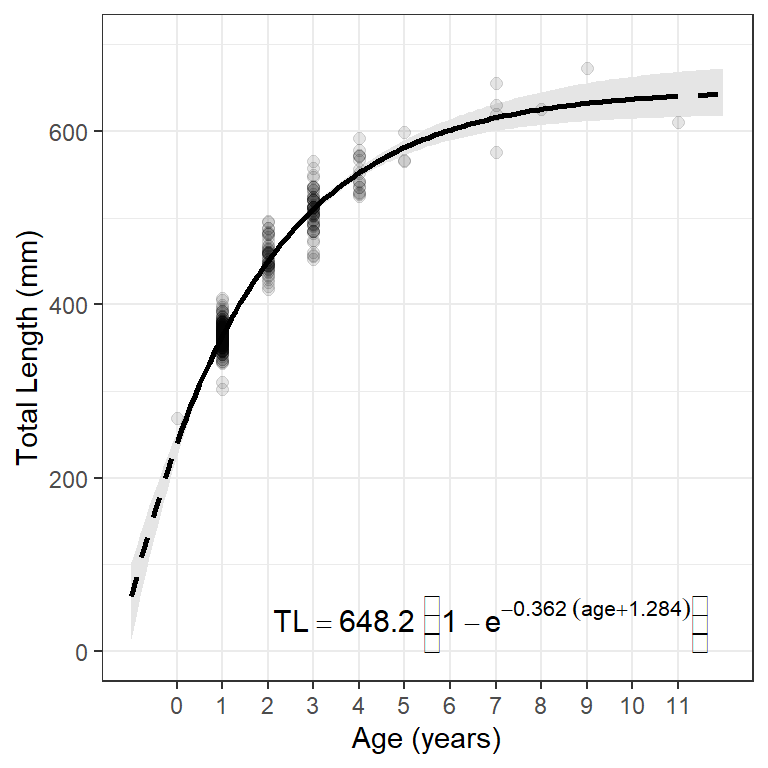
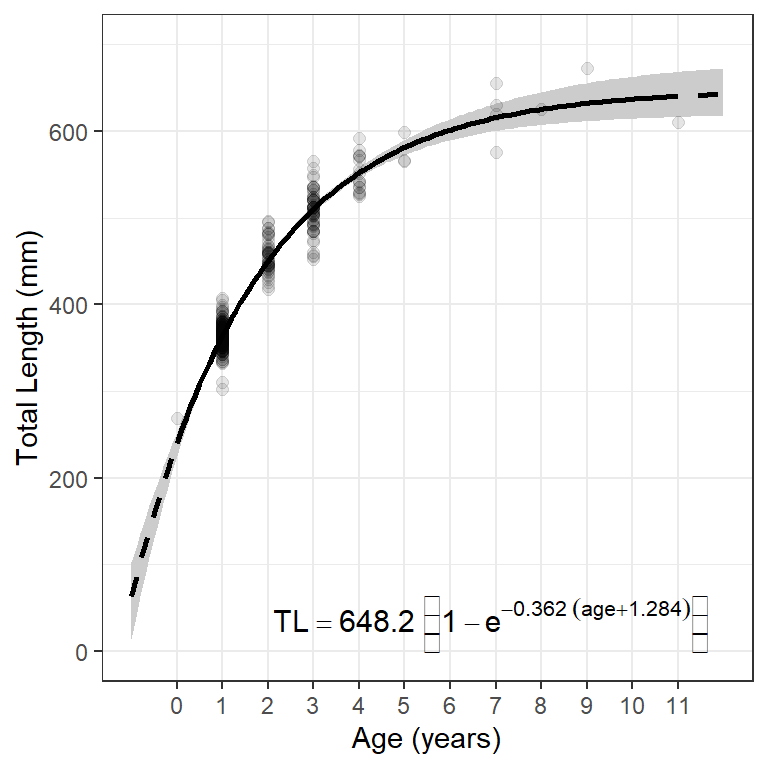
minor edits to VonB plot post

Changed region(s): [[0.4688, 0.0625, 0.9688, 0.2188], [0.1562, 0.5625, 0.25, 0.8125]]

diff --git a/docs/blog/posts/2019-12-31_vonB_plots_1/index.html b/docs/blog/posts/2019-12-31_vonB_plots_1/index.html
@@ -275,7 +275,7 @@ div.csl-indent {
       <div>
       <div class="quarto-title-meta-heading">Modified</div>
       <div class="quarto-title-meta-contents">
-        <p class="date-modified">Dec 8, 2022</p>
+        <p class="date-modified">Dec 9, 2022</p>
       </div>
     </div>
       
@@ -365,8 +365,8 @@ Note
 #R|      }
 #R|      Linf * (1 - exp(-K * (t - t0)))
 #R|  }
-#R|  &lt;bytecode: 0x0000018af463a068&gt;
-#R|  &lt;environment: 0x0000018af4672188&gt;</code></pre>
+#R|  &lt;bytecode: 0x000002849eaee880&gt;
+#R|  &lt;environment: 0x000002849dcf20e8&gt;</code></pre>
 </div>
 </div>
 <div class="page-columns page-full"><p>Some of the methods below use the fact that the three parameters of the typical VBGF (<span class="math inline">\(L_{\infty}\)</span>, <span class="math inline">\(K\)</span>, <span class="math inline">\(t_{0}\)</span>) can be given to this function separately (in that order) or as a vector (still in that order). For example, both lines below can be used to predict the mean length for an age-3 fish with the given VBGF parameters.<a href="#fn4" class="footnote-ref" id="fnref4" role="doc-noteref"><sup>4</sup></a></p><div class="no-row-height column-margin column-container"><li id="fn4"><p><sup>4</sup>&nbsp;The paramters could be given in a different order but would need to be named; e.g., <code>vb(3,t0=-0.5,K=0.3,Linf=300)</code>.</p></li></div></div>
@@ -485,6 +485,7 @@ Note
 </div>
 </div>
 </div>
+<p>&nbsp;</p>
 </section>
 <section id="simple-model-fit-with-predicted-values" class="level1 page-columns page-full">
 <h1>Simple Model Fit with Predicted Values</h1>
@@ -550,7 +551,7 @@ Note
 <p>A confidence band for the mean lengths at each age is then added to the plot with <code>geom_ribbon()</code>, noting the use of <code>ymin=LCI</code> and <code>ymax=UCI</code>. The <code>fill=</code> will be the color of the enclosed ribbon. I added <code>geom_ribbon()</code> first so that it would sit behind the points and model lines. The results is shown in <a href="#fig-vbfit4a">Figure&nbsp;5</a>.</p>
 <div class="cell page-columns page-full" data-layout-align="center">
 <div class="sourceCode cell-code" id="cb26"><pre class="sourceCode r code-with-copy"><code class="sourceCode r"><span id="cb26-1"><a href="#cb26-1" aria-hidden="true" tabindex="-1"></a><span class="fu">ggplot</span>() <span class="sc">+</span> </span>
-<span id="cb26-2"><a href="#cb26-2" aria-hidden="true" tabindex="-1"></a>  <span class="fu">geom_ribbon</span>(<span class="at">data=</span>pred1,<span class="fu">aes</span>(<span class="at">x=</span>age,<span class="at">ymin=</span>LCI,<span class="at">ymax=</span>UCI),<span class="at">fill=</span><span class="st">"gray90"</span>) <span class="sc">+</span></span>
+<span id="cb26-2"><a href="#cb26-2" aria-hidden="true" tabindex="-1"></a>  <span class="fu">geom_ribbon</span>(<span class="at">data=</span>pred1,<span class="fu">aes</span>(<span class="at">x=</span>age,<span class="at">ymin=</span>LCI,<span class="at">ymax=</span>UCI),<span class="at">fill=</span><span class="st">"gray80"</span>) <span class="sc">+</span></span>
 <span id="cb26-3"><a href="#cb26-3" aria-hidden="true" tabindex="-1"></a>  <span class="fu">geom_point</span>(<span class="at">data=</span>wf14T,<span class="fu">aes</span>(<span class="at">y=</span>tl,<span class="at">x=</span>age),<span class="at">size=</span><span class="dv">2</span>,<span class="at">alpha=</span><span class="fl">0.1</span>) <span class="sc">+</span></span>
 <span id="cb26-4"><a href="#cb26-4" aria-hidden="true" tabindex="-1"></a>  <span class="fu">geom_line</span>(<span class="at">data=</span>pred1,<span class="fu">aes</span>(<span class="at">x=</span>age,<span class="at">y=</span>plen),<span class="at">linewidth=</span><span class="dv">1</span>,<span class="at">linetype=</span><span class="st">"dashed"</span>) <span class="sc">+</span></span>
 <span id="cb26-5"><a href="#cb26-5" aria-hidden="true" tabindex="-1"></a>  <span class="fu">geom_line</span>(<span class="at">data=</span><span class="fu">filter</span>(pred1,age<span class="sc">&gt;=</span><span class="dv">0</span>,age<span class="sc">&lt;=</span><span class="dv">11</span>),<span class="fu">aes</span>(<span class="at">x=</span>age,<span class="at">y=</span>plen),<span class="at">linewidth=</span><span class="dv">1</span>) <span class="sc">+</span></span>
@@ -570,7 +571,7 @@ Note
 </section>
 <section id="add-equation-to-plot" class="level1 page-columns page-full">
 <h1>Add Equation to Plot</h1>
-<div class="page-columns page-full"><p>The following function can be used to extract the model coefficients from <code>nls()</code> object and place them into a “plotmath” format to be added to the <code>ggplot</code> graph. The object returned from this function can be added to the <code>ggplot</code> graph with <code>annotate()</code> as shown below.<a href="#fn12" class="footnote-ref" id="fnref12" role="doc-noteref"><sup>12</sup></a></p><div class="no-row-height column-margin column-container"><li id="fn12"><p><sup>12</sup>&nbsp;The <code>x=</code>, <code>y=</code>, <code>hjust=</code>, and <code>vjust=</code> arguments are used to position and justify the text and may take some trial-and-error to get what you want.</p></li></div></div>
+<p>The following function can be used to extract the model coefficients from <code>nls()</code> object and place them into a “plotmath” format to be added to the <code>ggplot</code> graph.</p>
 <div class="cell" data-layout-align="center">
 <div class="sourceCode cell-code" id="cb27"><pre class="sourceCode r code-with-copy"><code class="sourceCode r"><span id="cb27-1"><a href="#cb27-1" aria-hidden="true" tabindex="-1"></a>makeVBEqnLabel <span class="ot">&lt;-</span> <span class="cf">function</span>(fit,<span class="at">digits=</span><span class="fu">c</span>(<span class="dv">1</span>,<span class="dv">3</span>,<span class="dv">3</span>)) {</span>
 <span id="cb27-2"><a href="#cb27-2" aria-hidden="true" tabindex="-1"></a>  <span class="co"># Isolate coefficients (and control decimals)</span></span>
@@ -585,9 +586,11 @@ Note
 <span id="cb27-11"><a href="#cb27-11" aria-hidden="true" tabindex="-1"></a>}</span></code><button title="Copy to Clipboard" class="code-copy-button"><i class="bi"></i></button></pre></div>
 </div>
 <p>&nbsp;</p>
+<div class="page-columns page-full"><p>The object returned from this function can be added to the <code>ggplot</code> graph with <code>annotate()</code> as shown below.<a href="#fn12" class="footnote-ref" id="fnref12" role="doc-noteref"><sup>12</sup></a></p><div class="no-row-height column-margin column-container"><li id="fn12"><p><sup>12</sup>&nbsp;The <code>x=</code>, <code>y=</code>, <code>hjust=</code>, and <code>vjust=</code> arguments are used to position and justify the text and may take some trial-and-error to get what you want.</p></li></div></div>
+<p>&nbsp;</p>
 <div class="cell page-columns page-full" data-layout-align="center">
 <div class="sourceCode cell-code" id="cb28"><pre class="sourceCode r code-with-copy"><code class="sourceCode r"><span id="cb28-1"><a href="#cb28-1" aria-hidden="true" tabindex="-1"></a><span class="fu">ggplot</span>() <span class="sc">+</span> </span>
-<span id="cb28-2"><a href="#cb28-2" aria-hidden="true" tabindex="-1"></a>  <span class="fu">geom_ribbon</span>(<span class="at">data=</span>pred1,<span class="fu">aes</span>(<span class="at">x=</span>age,<span class="at">ymin=</span>LCI,<span class="at">ymax=</span>UCI),<span class="at">fill=</span><span class="st">"gray90"</span>) <span class="sc">+</span></span>
+<span id="cb28-2"><a href="#cb28-2" aria-hidden="true" tabindex="-1"></a>  <span class="fu">geom_ribbon</span>(<span class="at">data=</span>pred1,<span class="fu">aes</span>(<span class="at">x=</span>age,<span class="at">ymin=</span>LCI,<span class="at">ymax=</span>UCI),<span class="at">fill=</span><span class="st">"gray80"</span>) <span class="sc">+</span></span>
 <span id="cb28-3"><a href="#cb28-3" aria-hidden="true" tabindex="-1"></a>  <span class="fu">geom_point</span>(<span class="at">data=</span>wf14T,<span class="fu">aes</span>(<span class="at">y=</span>tl,<span class="at">x=</span>age),<span class="at">size=</span><span class="dv">2</span>,<span class="at">alpha=</span><span class="fl">0.1</span>) <span class="sc">+</span></span>
 <span id="cb28-4"><a href="#cb28-4" aria-hidden="true" tabindex="-1"></a>  <span class="fu">geom_line</span>(<span class="at">data=</span>pred1,<span class="fu">aes</span>(<span class="at">x=</span>age,<span class="at">y=</span>plen),<span class="at">linewidth=</span><span class="dv">1</span>,<span class="at">linetype=</span><span class="st">"dashed"</span>) <span class="sc">+</span></span>
 <span id="cb28-5"><a href="#cb28-5" aria-hidden="true" tabindex="-1"></a>  <span class="fu">geom_line</span>(<span class="at">data=</span><span class="fu">filter</span>(pred1,age<span class="sc">&gt;=</span><span class="dv">0</span>,age<span class="sc">&lt;=</span><span class="dv">11</span>),<span class="fu">aes</span>(<span class="at">x=</span>age,<span class="at">y=</span>plen),<span class="at">linewidth=</span><span class="dv">1</span>) <span class="sc">+</span></span>
@@ -600,7 +603,7 @@ Note
 <div id="fig-vbfit4" class="quarto-figure quarto-figure-center anchored page-columns page-full">
 <figure class="figure page-columns page-full">
 <p><img src="index_files/figure-html/fig-vbfit4-1.png" class="img-fluid figure-img" width="384"></p>
-<p></p><figcaption class="figure-caption margin-caption">Figure&nbsp;6: Fit of typibcal von Bertalanffy growth function to female Lake Erie Walleye in 2014 with a 95% confidence band. The dashed line shows the model fit outside the range of observed ages.</figcaption><p></p>
+<p></p><figcaption class="figure-caption margin-caption">Figure&nbsp;6: Fit of typical von Bertalanffy growth function to female Lake Erie Walleye in 2014 with a 95% confidence band. The dashed line shows the model fit outside the range of observed ages.</figcaption><p></p>
 </figure>
 </div>
 </div>

diff --git a/docs/blog/index.html b/docs/blog/index.html
@@ -222,7 +222,7 @@ ul.task-list li input[type="checkbox"] {
   </div>
 </div>
 <div class="list grid quarto-listing-cols-3">
-<div class="g-col-1" data-index="0" data-categories="Age,Growth,Size,ggplot2" data-listing-date-sort="1577772000000" data-listing-file-modified-sort="1670552940192" data-listing-reading-time-sort="10.05">
+<div class="g-col-1" data-index="0" data-categories="Age,Growth,Size,ggplot2" data-listing-date-sort="1577772000000" data-listing-file-modified-sort="1670598196347" data-listing-reading-time-sort="10.05">
 <a href="../blog/posts/2019-12-31_vonB_plots_1/index.html" class="quarto-grid-link">
 <div class="quarto-grid-item card h-100 card-left">
 <p class="card-img-top">
@@ -249,7 +249,7 @@ Dec 31, 2019
 </div>
 <div class="card-footer">
 <div class="card-file-modified listing-file-modified">
-<p>Dec 8, 2022</p>
+<p>Dec 9, 2022</p>
 </div>
 </div>
 </div>
